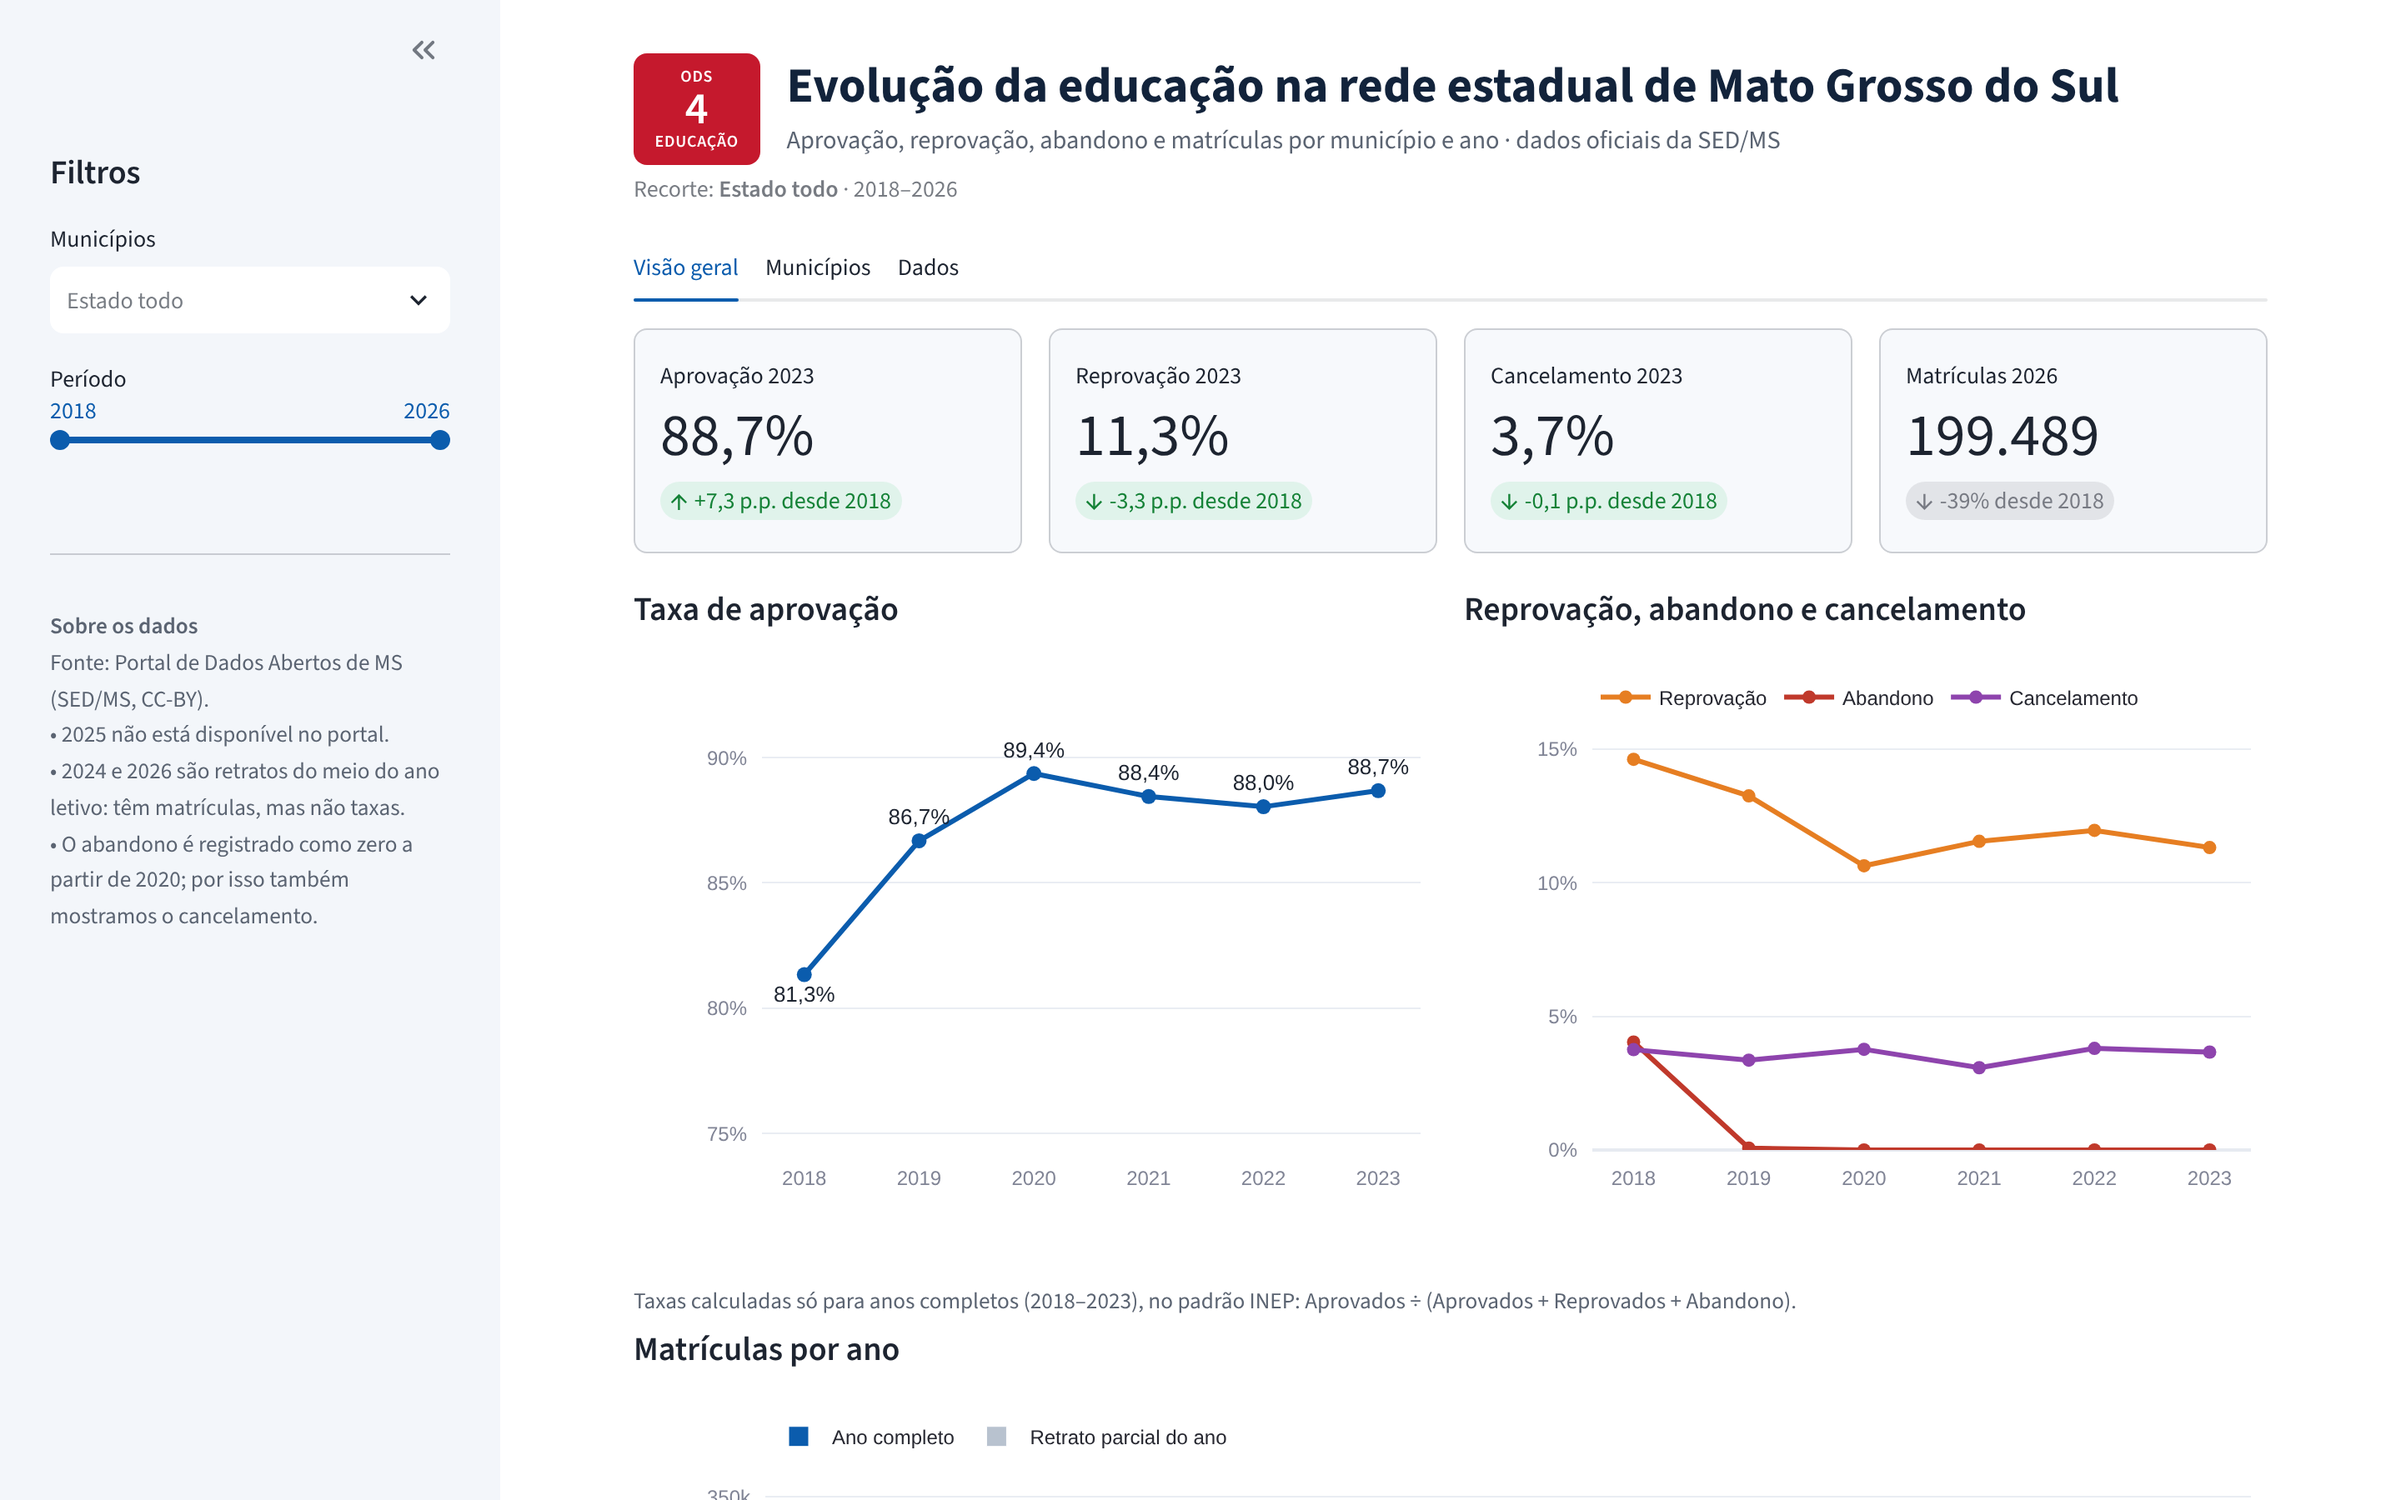
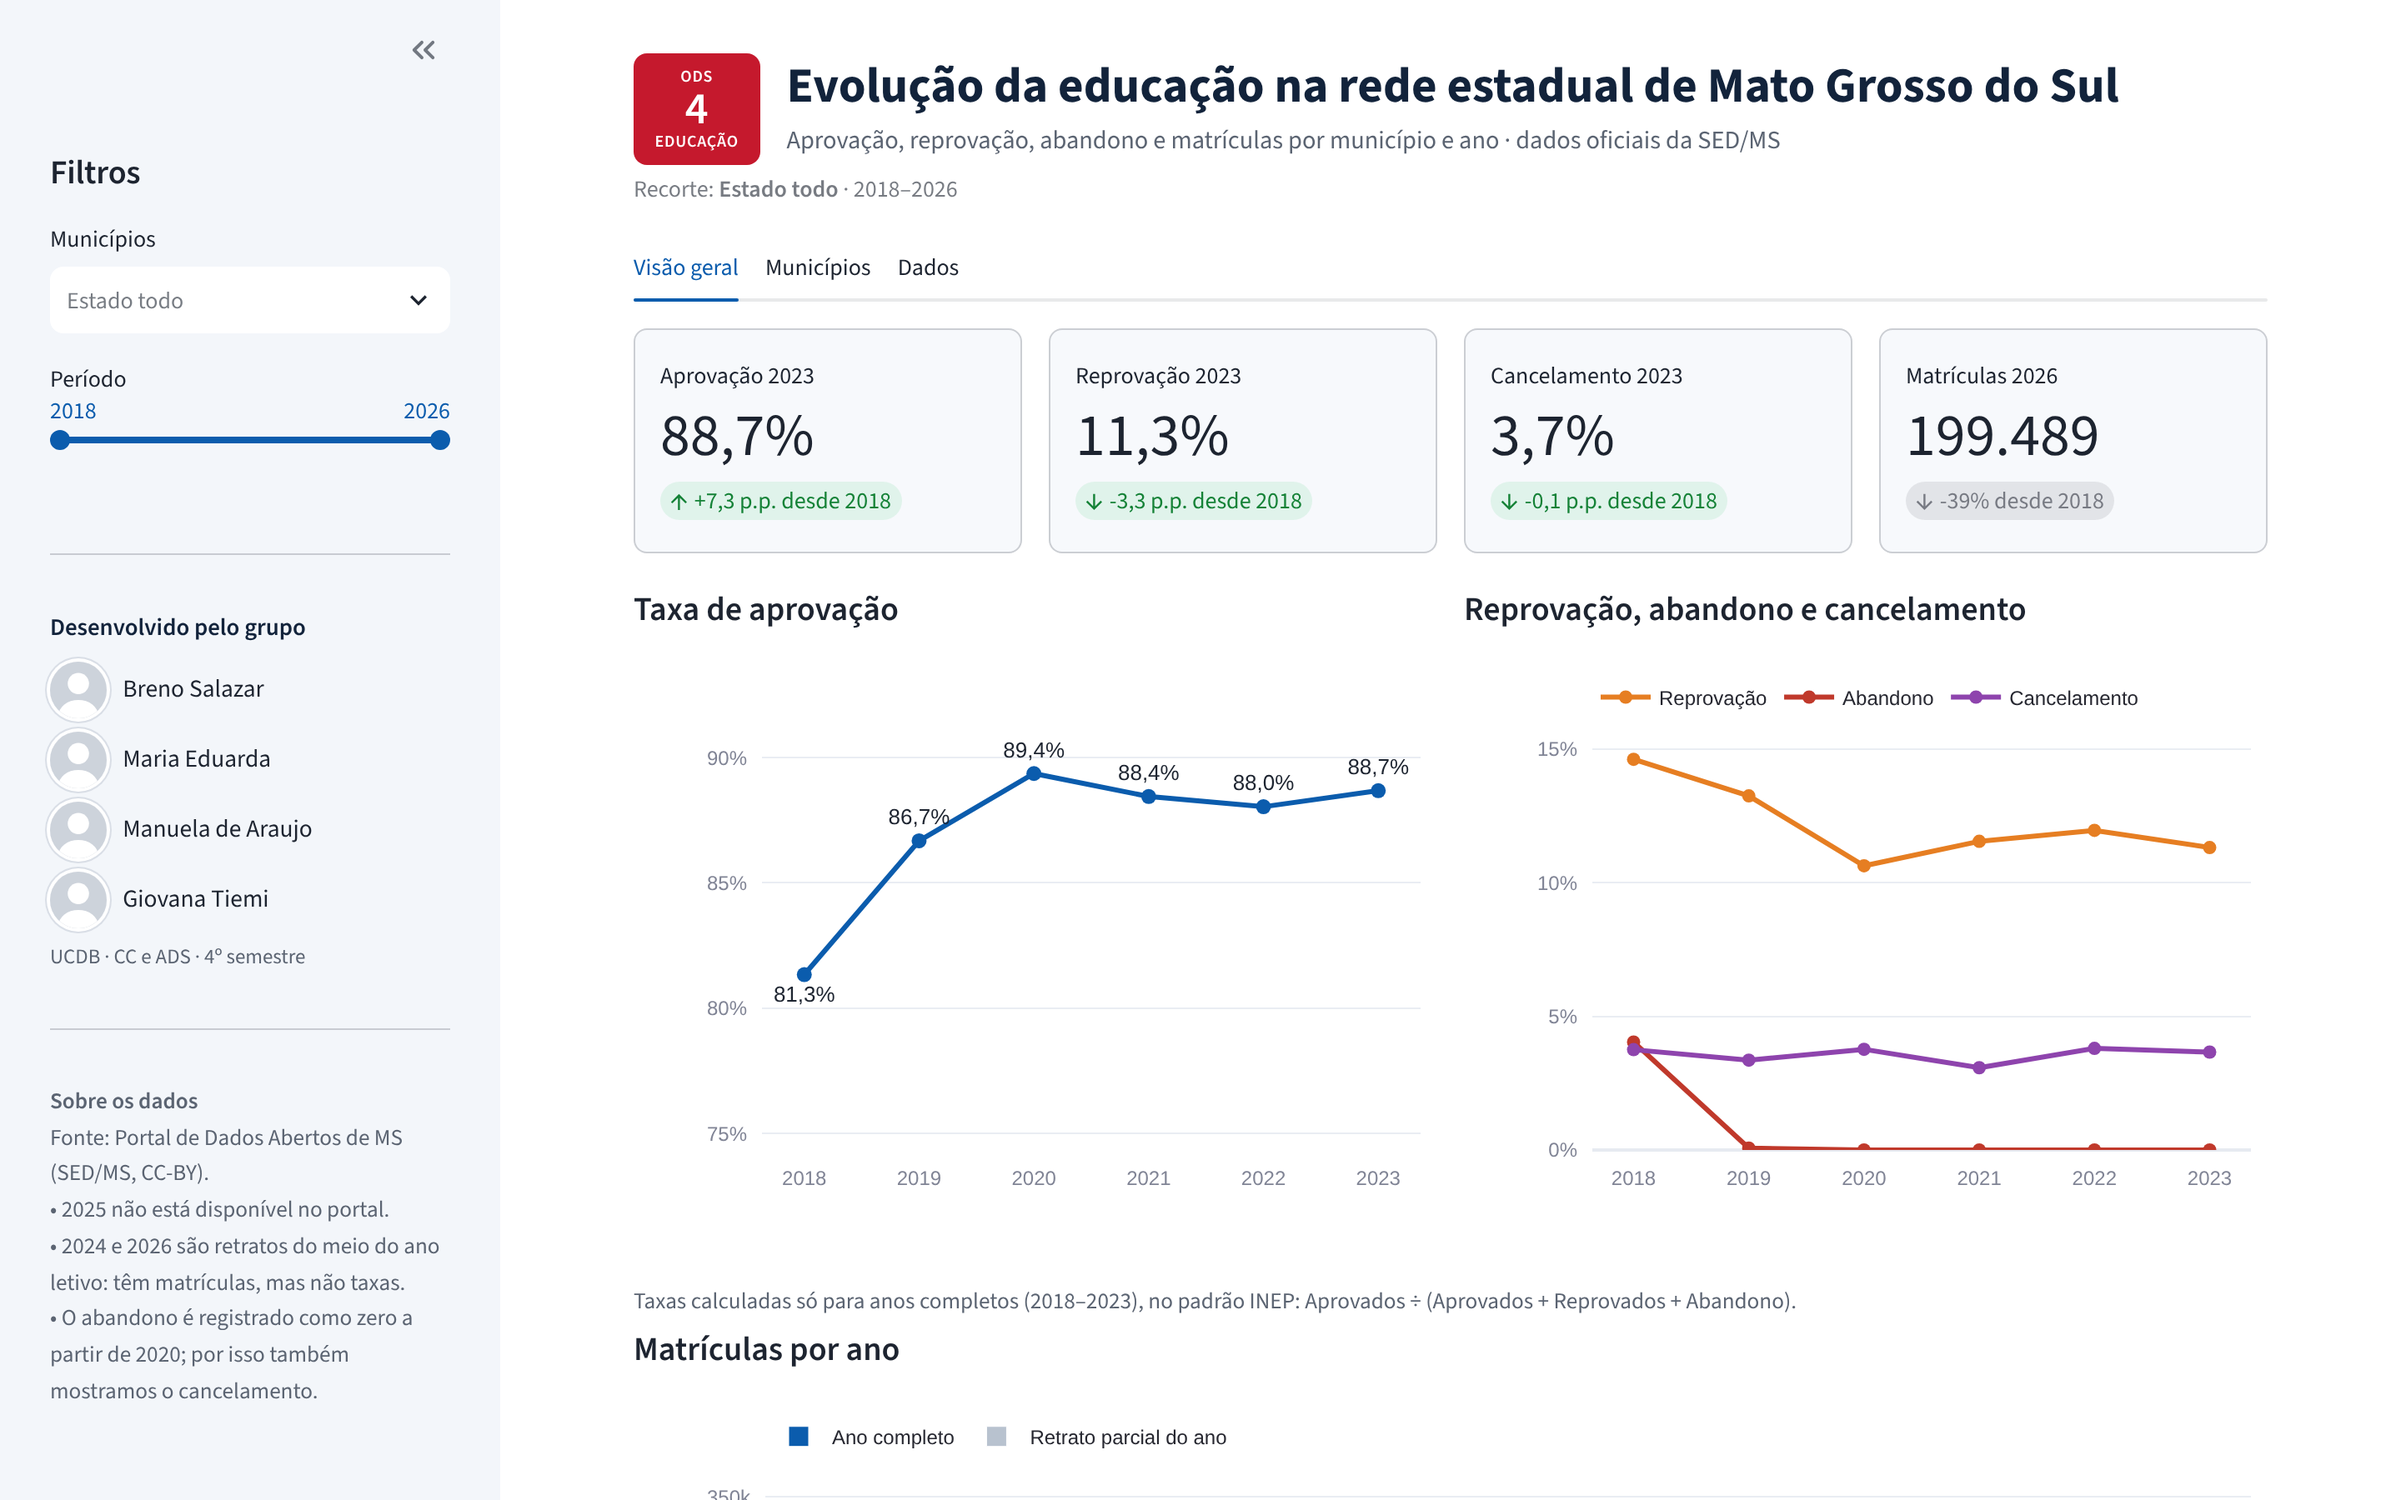
Barra lateral com os integrantes do grupo
Claude-Session: https://claude.ai/code/session_019t3nZRBpDnxDj5ysVaoMkY

Changed region(s): [[0.0, 0.4044, 0.1562, 0.6533], [0.0312, 0.7156, 0.1875, 0.9333]]

diff --git a/app.py b/app.py
@@ -25,6 +25,11 @@ st.markdown(
       .cabecalho p { margin: .15rem 0 0; color: #5B6472; font-size: .95rem; }
       div[data-testid="stMetric"] { background: #F7F9FC; }
       .nota { color: #5B6472; font-size: .85rem; }
+      .equipe-titulo { font-weight: 600; font-size: .9rem; color: #12233B; margin-bottom: .55rem; }
+      .membro { display: flex; align-items: center; gap: .6rem; margin-bottom: .5rem; }
+      .membro span { font-size: .92rem; color: #1D2430; }
+      .avatar { width: 34px; height: 34px; border-radius: 50%; flex-shrink: 0; box-shadow: 0 0 0 2px #FFFFFF, 0 0 0 3px #D9DEE6; }
+      .equipe-curso { color: #5B6472; font-size: .78rem; margin-top: .35rem; }
     </style>
     <div class="cabecalho">
       <div class="ods"><span>ODS</span><b>4</b><span>EDUCAÇÃO</span></div>
@@ -80,6 +85,18 @@ with st.sidebar:
     st.header("Filtros")
     sel_mun = st.multiselect("Municípios", repo.municipios(), placeholder="Estado todo")
     ano_ini, ano_fim = st.select_slider("Período", options=anos, value=(anos[0], anos[-1]))
+    st.divider()
+    avatar = ("<svg class='avatar' viewBox='0 0 40 40' xmlns='http://www.w3.org/2000/svg'>"
+              "<rect width='40' height='40' fill='#CDD3DB'/>"
+              "<circle cx='20' cy='15.5' r='7.5' fill='#FFFFFF'/>"
+              "<ellipse cx='20' cy='38' rx='14' ry='11' fill='#FFFFFF'/></svg>")
+    integrantes = ["Breno Salazar", "Maria Eduarda", "Manuela de Araujo", "Giovana Tiemi"]
+    lista = "".join(f"<div class='membro'>{avatar}<span>{n}</span></div>" for n in integrantes)
+    st.markdown(
+        "<div class='equipe'><div class='equipe-titulo'>Desenvolvido pelo grupo</div>"
+        f"{lista}<div class='equipe-curso'>UCDB · CC e ADS · 4º semestre</div></div>",
+        unsafe_allow_html=True,
+    )
     st.divider()
     st.markdown(
         "<div class='nota'><b>Sobre os dados</b><br>Fonte: Portal de Dados Abertos de MS (SED/MS, CC-BY).<br>"
